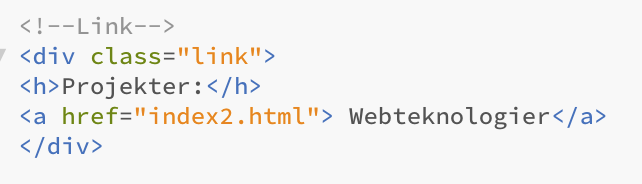
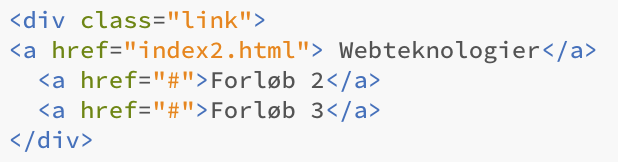
Add files via upload

Changed region(s): [[0.0, 0.4012, 0.9531, 0.9259], [0.0, 0.2469, 0.9838, 0.4012], [0.0, 0.0617, 0.4304, 0.1852]]

diff --git a/myStyle.css b/myStyle.css
@@ -8,17 +8,8 @@ html,body{
 
 .linear{
     position: relative;
-    background-image: linear-gradient(#3175B5,#204C75);
-    height: 120%;
-    width: 120%;
-    margin: 0px;
-    padding: 0px;
-}
-
-.linear2{
-    position: relative;
-    background-image: linear-gradient(#3175B5,#204C75);
-    height: 120%;
+    background-image: linear-gradient(#3175B5,#1B57AB);
+    height: 100%;
     width: 100%;
     margin: 0px;
     padding: 0px;
@@ -29,29 +20,24 @@ h1{
 font-style:oblique;
 }
 
-
 .overskrift{
     float:center;
-    width:100%;
-    height:100px;
     overflow:hidden;
     font-size: 50px;
     text-align: center;
     text-decoration-line: underline;
     color: black;
-}
-
-#tekst2{
-text-align: left;
-color: black;
-overflow:visible;
-font-size: 30px
+    border: 5px solid #4FB3F5;
+    padding: 5px;
+    margin-left: 400px;
+    margin-right: 400px;
+    background-color: white;
 }
 
 .box{
 width: auto; 
 height: auto;
-border: 5px solid lightblue;
+border: 5px solid #4FB3F5;
 padding: 10px;
 margin-left: auto;
 margin-right: auto;
@@ -61,39 +47,132 @@ background-color: white;
 .box-underside{
 width: auto; 
 height: auto;
-border: 5px solid lightblue;
+border: 5px solid #4FB3F5;
 padding: 10px;
 margin-left: auto;
 margin-right: auto;
 background-color: white;
 }
 
-.link{
-width: auto; 
-height: auto;
-border: 5px solid lightblue;
-padding: 10px;
-margin-left: auto;
-margin-right: auto;
-background-color: white;
-}
-
-img {
-  display: block;
-    margin-left: auto;
-    margin-right: auto;
-}
 
 .eks{
-width: auto; 
-height: auto;
-border: 5px solid lightblue;
+width: 47.8%; 
+height: 60%;
+border: 5px solid #4FB3F5;
 padding: 10px;
-margin-left: auto;
-margin-right: auto;
 background-color: white;
+position: relative;
+left:0px;
+top:100x;
 }
 
+.eks2{
+width: 47.8%; 
+height: 60%;
+border: 5px solid #4FB3F5;
+padding: 10px;
+background-color: white;
+position: relative;
+left:640px;
+top:-606px;
+}
 
+.b1{
+width: 47%; 
+height: 47%;
+border: 5px solid #4FB3F5;
+padding: 10px;
+margin: 20px;
+background-color: white;
+position: relative;
+top: -30px;
+left: -20px;
+}
+
+.b2{
+width: 47%; 
+height: 47%;
+border: 5px solid #4FB3F5;
+padding: 10px;
+margin: 20px;
+background-color: white;
+position: relative;
+top: -531px;
+left: 620px;
+}
+
+.bk1{
+width: 47.5%; 
+height: 50%;
+border: 5px solid #4FB3F5;
+padding: 10px;
+margin: 20px;
+background-color: white;
+position: relative;
+top: -70px;
+left: -20px; 
+}
+
+.bk2{
+width: 47.5%; 
+height: 50%;
+border: 5px solid #4FB3F5;
+padding: 10px;
+margin: 20px;
+background-color: white;
+position: relative;
+top: -600px;
+left: 623px; 
+}
+
+.ob{
+width: 97.7%; 
+height: 5%;
+border: 5px solid #4FB3F5;
+padding: 10px;
+margin: 20px;
+background-color: white;
+position: relative;
+top: -15px;
+left: -20px;
+font-size: 20px;
+}
+
+{
+  box-sizing: border-box;
+}
+
+body {
+  margin: 0;
+}
+
+/* Style the header */
+.header {
+  background-color: black;
+  padding: 10px;
+  text-align: center;
+}
+
+/* Style the top navigation bar */
+.link {
+  overflow: hidden;
+  background-color: #4FB3F5;
+}
+
+/* Style the topnav links */
+.link a {
+  float: left;
+  display: block;
+  color: black;
+  text-align: center;
+  padding: 14px 16px;
+  text-decoration: none;
+}
+
+/* Change color on hover */
+.link a:hover {
+  background-color: #4CC1FF;
+  color: white;
+}
 
 
